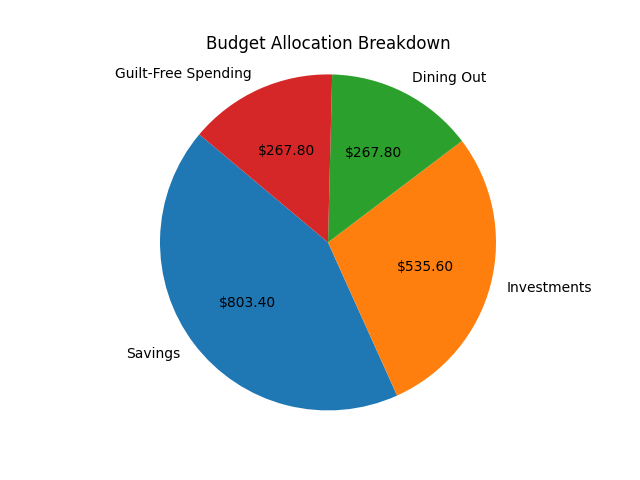
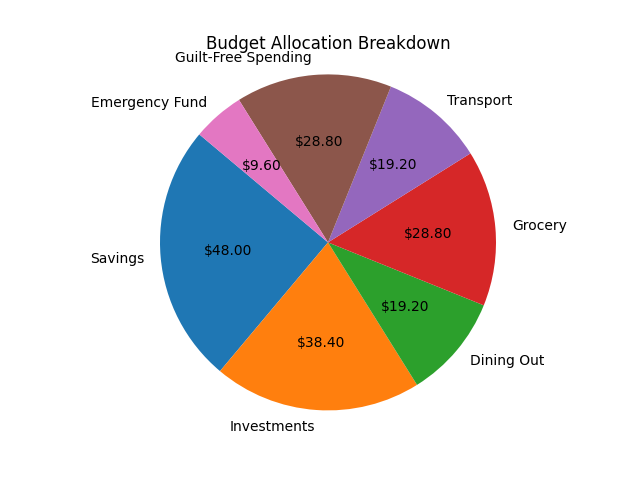
README and other catergories added

diff --git a/Budget_Percentage_Calculation.py b/Budget_Percentage_Calculation.py
@@ -19,28 +19,34 @@ class Budget:
 
     def budget_calculation(self):
         calculate = lambda percantage: percantage * self.remaining_income
-        savings = calculate(0.30)
+        savings = calculate(0.25)
         investments = calculate(0.20)
         dining_out = calculate(0.10) 
+        grocery = calculate(0.15)
+        transport = calculate(0.05)
         guilt_free_spending = calculate(0.10)
-        return savings, investments, dining_out, guilt_free_spending
+        emergency_fund = calculate(0.15)
+        return savings, investments, dining_out, grocery, guilt_free_spending, emergency_fund, transport
 
     
     def display_budget(self):
         try: 
-            savings, investments, dining_out, guilt_free_spending = self.budget_calculation()
+            savings, investments, dining_out, grocery, guilt_free_spending, emergency_fund, transport = self.budget_calculation()
             self.print_header("small")
             print(f"{Fore.RED}Your Monthly Budget Allocation:")
             catergories = [
                             ("Saving" , savings), 
                             ("Investment" , investments), 
                             ("Dining-out" , dining_out),
-                            ("Guilt Free Spending" , guilt_free_spending)
+                            ("Grocery", grocery),
+                            ("Transport", transport),
+                            ("Guilt Free Spending" , guilt_free_spending),
+                            ("Emergency Fund", emergency_fund)
                         ]
             for category, value in catergories:
                 print(f"{Fore.BLUE}{category}:{Style.RESET_ALL} ${value:.2f}")
-            self.display_budget_table(savings, investments, dining_out, guilt_free_spending)
-            self.pie_chart(savings, investments, dining_out, guilt_free_spending)
+            self.display_budget_table(savings, investments, dining_out, grocery, guilt_free_spending, emergency_fund, transport)
+            self.pie_chart(savings, investments, dining_out, grocery, guilt_free_spending, emergency_fund, transport)
         except Exception as e:
             print(f"{Fore.RED}Error in displaying the budget: {e}{Style.RESET_ALL}")
 
@@ -62,13 +68,16 @@ class Budget:
             print(f"{Fore.RED}Error: Failed to print the header due to encoding issues: {e}{Style.RESET_ALL}")
 
 
-    def display_budget_table(self, savings, investments, dining_out, guilt_free_spending):
+    def display_budget_table(self, savings, investments, dining_out, grocery, guilt_free_spending, emergency_fund, transport):
         try: 
             table = [
                 ['Savings', f"${savings:.2f}"],
                 ['Investments', f"${investments:.2f}"],
                 ['Dining Out', f"${dining_out:.2f}"],
-                ['Guilt-Free Spending', f"${guilt_free_spending:.2f}"]
+                ['Grocery', f"${grocery:.2f}"],
+                ['Transport', f"${transport:.2f}"],
+                ['Guilt-Free Spending', f"${guilt_free_spending:.2f}"],
+                ['Emergency Fund', f"${emergency_fund:.2f}"]
             ]
             print(tabulate(table, headers=["Category", "Amount"], tablefmt="fancy_grid"))
         except Exception as e:
@@ -76,9 +85,9 @@ class Budget:
 
 
 
-    def pie_chart(self, savings, investments, dining_out, guilt_free_spending):
-        categories = ['Savings', 'Investments', 'Dining Out', 'Guilt-Free Spending']
-        values = [savings, investments, dining_out, guilt_free_spending]
+    def pie_chart(self, savings, investments, dining_out, grocery, guilt_free_spending, emergency_fund, transport):
+        categories = ['Savings', 'Investments', 'Dining Out', 'Grocery', 'Transport', 'Guilt-Free Spending', 'Emergency Fund']
+        values = [savings, investments, dining_out, grocery, guilt_free_spending, emergency_fund, transport]
 
         # function to format the labels with value 
         def func(pct, allvals): #pct: The percentage of the pie slice (how much of the total the slice represents).allvals: The list of all values (like values), which represents the total money in each category.

diff --git a/README.md b/README.md
@@ -1,15 +1,48 @@
 # Budget_allocation_app
 
 ## Overview
- #The Budget Allocation App is a command-line interface (CLI) tool designed to help users optimize their monthly income through tailored budgeting and expense planning. The app calculates how users can best allocate their income across various expense categories.
+ ###The Budget Allocation App is a command-line interface (CLI) tool designed to help users optimize their monthly income through tailored budgeting and expense planning. The app calculates how users can best allocate their income across various expense categories.
 
 
-## Features:
-    # To view youe personalized budget
+## Features
+    **User Input**: Collects monthly income and fixed expenses from the user.
+    **Budget Allocation**: Calculates the budget for various categories like Savings, Investments, Dining Out, and Guilt-Free Spending.
+    **Budget Visualization**: Displays a pie chart representing the budget breakdown.
 
-## Installation:
+## Requirement:
+    Before running the app, ensure you have the following installed:
+        - **Python 3.x** (Recommended: Python 3.8+)
+        The following Python libraries (can be installed using 'pip'):
+            - 'matplotlib': For visualizing the budget allocation in a pie chart.
+            - 'tabulate': For formatting the budget data into a table.
+            - 'colorama': For terminal text formatting (used to display colorful output).
+            - 'pyfiglet': For printing the app header in an ASCII art style.
+
+        You can install these dependencies by running:
+           ```bash
+            pip install matplotlib tabulate colorama pyfiglet```
 
 
-## Required Files & Packages:
+## Installation
+    ###Step 1: Clone this repository to your local machine:
+    ```
+    git clone git@github.com:Angie-newbie/Budget_allocation_app.git
+    cd Budget_allocation_app
+    ```
+
+    ###Step 2: Install the required dependencies:
+    ```
+    pip install matplotlib tabulate colorama pyfiglet
+    ```
+
+    ###Step 3: Run the App
+    ```
+    python main.py
+    ```
 
 ## Copyright and Licence 
+    This project uses the following Python libraries:
+    `matplotlib` (version 3.6.0) - Licensed under the [Matplotlib License](https://matplotlib.org/stable/users/license.html)
+    - `tabulate` (version 0.9.0) - Licensed under the [MIT License](https://opensource.org/licenses/MIT)
+    - `colorama` (version 0.4.6) - Licensed under the [MIT License](https://opensource.org/licenses/MIT)
+    - `pyfiglet` (version 0.8) - Licensed under the [MIT License](https://opensource.org/licenses/MIT)
